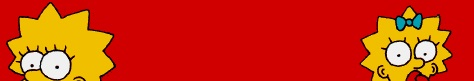
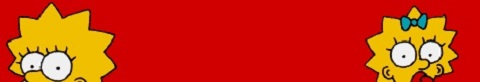
update files

Changed region(s): [[0.7384, 0.0741, 0.9747, 1.0], [0.0, 0.0247, 0.2658, 1.0], [0.1477, 0.7901, 0.1772, 0.8148]]

diff --git a/index.html b/index.html
@@ -14,16 +14,35 @@
 </head>
 
 <body>
-<img src="assets/images/The_Simpsons_bg_top.jpg" alt="Background-Top" id="background-top">
-<img src="assets/images/The_Simpsons_bg_left.jpg" alt="Background-Left" id="background-left">
-<img src="assets/images/The_Simpsons_bg_right.jpg" alt="Background-Right" id="background-right">
-<img src="assets/images/The_Simpsons_bg_bottom.jpg" alt="Background-Bottom" id="background-bottom">
+<div class="container">
+  <div class="row">
+  	<div class="col-lg-7"></div>
+	<img src="assets/images/The_Simpsons_bg_top.jpg" alt="Background-Top" class="col-lg-5">
+  <div class="row">
+	<img src="assets/images/The_Simpsons_bg_left.jpg" alt="Background-Left" class="col-lg-1">
+	<div align="center" class="col-lg-10">
+		<img src="assets/images/The-Simpsons-header.jpg" alt="background-header" class="background-header"><br>
+		<h1>Hangman Game!<br>
+		Type a letter to reveal a character's name
+		</h1>
+		<p class="alert alert-info">Guesses Left: <span id="guesses-left"></span></p>
+		<p class="alert alert-danger">Wrong Guesses: <span id="wrong-guesses"></span></p>
+		<p class="alert alert-success">Wins: <span id="win-counter"></span></p>
+		<p class="alert alert-warning">Losses: <span id="loss-counter"></span></p>
+		<h3 id="word-blank"></h3>
+	</div>
+	<img src="assets/images/The_Simpsons_bg_right.jpg" alt="Background-Right" class="col-lg-1">
+  <div class="row">
+  <div class="col-lg-3"></div>
+	<img src="assets/images/The_Simpsons_bg_bottom.jpg" alt="Background-Bottom" class="col-lg-6">
+	<div class="col-lg-3"></div>
+		</div>
+	 </div>
+  </div>
+</div>
 
-<p>Guesses Left: <span id="guesses-left" class="danger"></span></p>
-<p>Wrong Guesses: <span id="wrong-guesses"></span></p>
-<p>Wins: <span id="win-counter"></span></p>
-<p>Losses: <span id="loss-counter"></span></p>
-<h3 id="word-blank"></h3>
+
+
 
 <script src="assets/javascript/game.js"></script>
 </body>

diff --git a/assets/css/style.css b/assets/css/style.css
@@ -1,3 +1,14 @@
+body{
+	background-color: #d00000; 
+}
+
+.background-header {
+   padding: 5px;
+   border: 7px solid navy;
+   background-color: yellow;
+   border-radius: 25px;
+}
+
 /*Guesses Left*/
 .guesses-left{
 
@@ -19,6 +30,17 @@
 }
 
 p {
+
+}
+
+h1 {
+	font-size: 20px;
+	padding: 5px;
+   	border: 1px solid green;
+    background-color: yellow;
+    border-radius: 25px;
+    color: #d00000;
+    font-weight: 800;
 
 }
 
